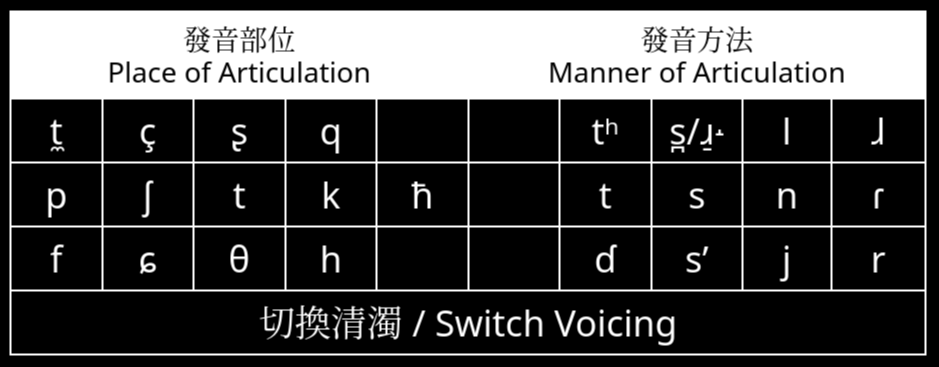
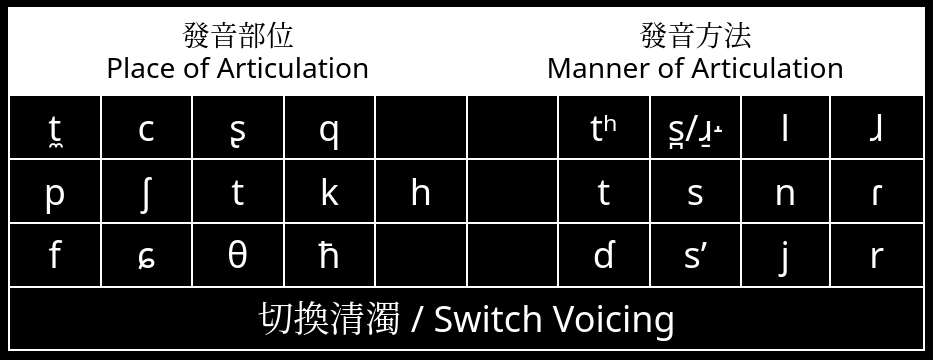
update README

diff --git a/README.md b/README.md
@@ -14,7 +14,7 @@
 
 ## 待辦 / Todo
 
-- [ ] Clicks
+- [x] Clicks
 - [ ] Brackets
 - [ ] Suprasegmentals
 - [ ] Tone
